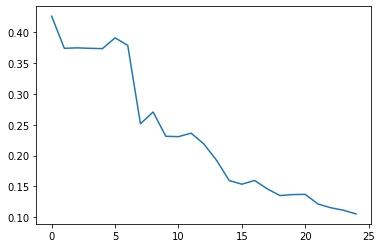
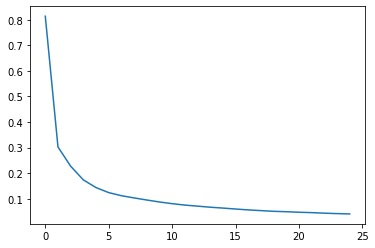
Edit readme for conv test and test it again

diff --git a/test.py b/test.py
@@ -62,17 +62,17 @@ costs = []
 for e in tqdm(range(1, 26)):
     np.random.shuffle(data)
     cost = 0
-    for b in tqdm(range(TOT_STEP)):
+    for b in range(TOT_STEP):
         x, y = load_batch(b, data, Batch_Size)
         cost += myModel.one_epoch(x, y, Batch_Size) / TOT_STEP
     costs.append(cost)
 
-plt.imshow(costs)
+plt.plot(costs)
 plt.show()
 
 X, gt = load_batch(0, data, 4)
-Y = myModel.forward(x)[-1]
-fig, ax = plt.subplots(2, 2, figsize=(4, 4))
+Y = myModel.forward(x, 4)[-1]
+fig, ax = plt.subplots(2, 2, figsize=(8, 8))
 ax[0, 0].imshow(X[0].reshape(28, 28), cmap="gray")
 ax[0, 0].set_title(f"{Y[:, 0]} vs {gt[:, 0]}")
 ax[0, 1].imshow(X[1].reshape(28, 28), cmap="gray")

diff --git a/README.md b/README.md
@@ -16,6 +16,10 @@
     *   ### [relu](./activations/sigmoid.py)
     *   ### [linear](./activations/linear.py)
 
+*   ##  [optimizers](./optimizers/)
+    *   ### [SGD](./optimizers/GradientDescent.py)
+    *   ### [Adam](./optimizers/ADAM.py)
+
 *   ##  [test FC](./main.py)
     *   ### ![data](./images/data.png)
     *   ### ![result](./images/result.png)
